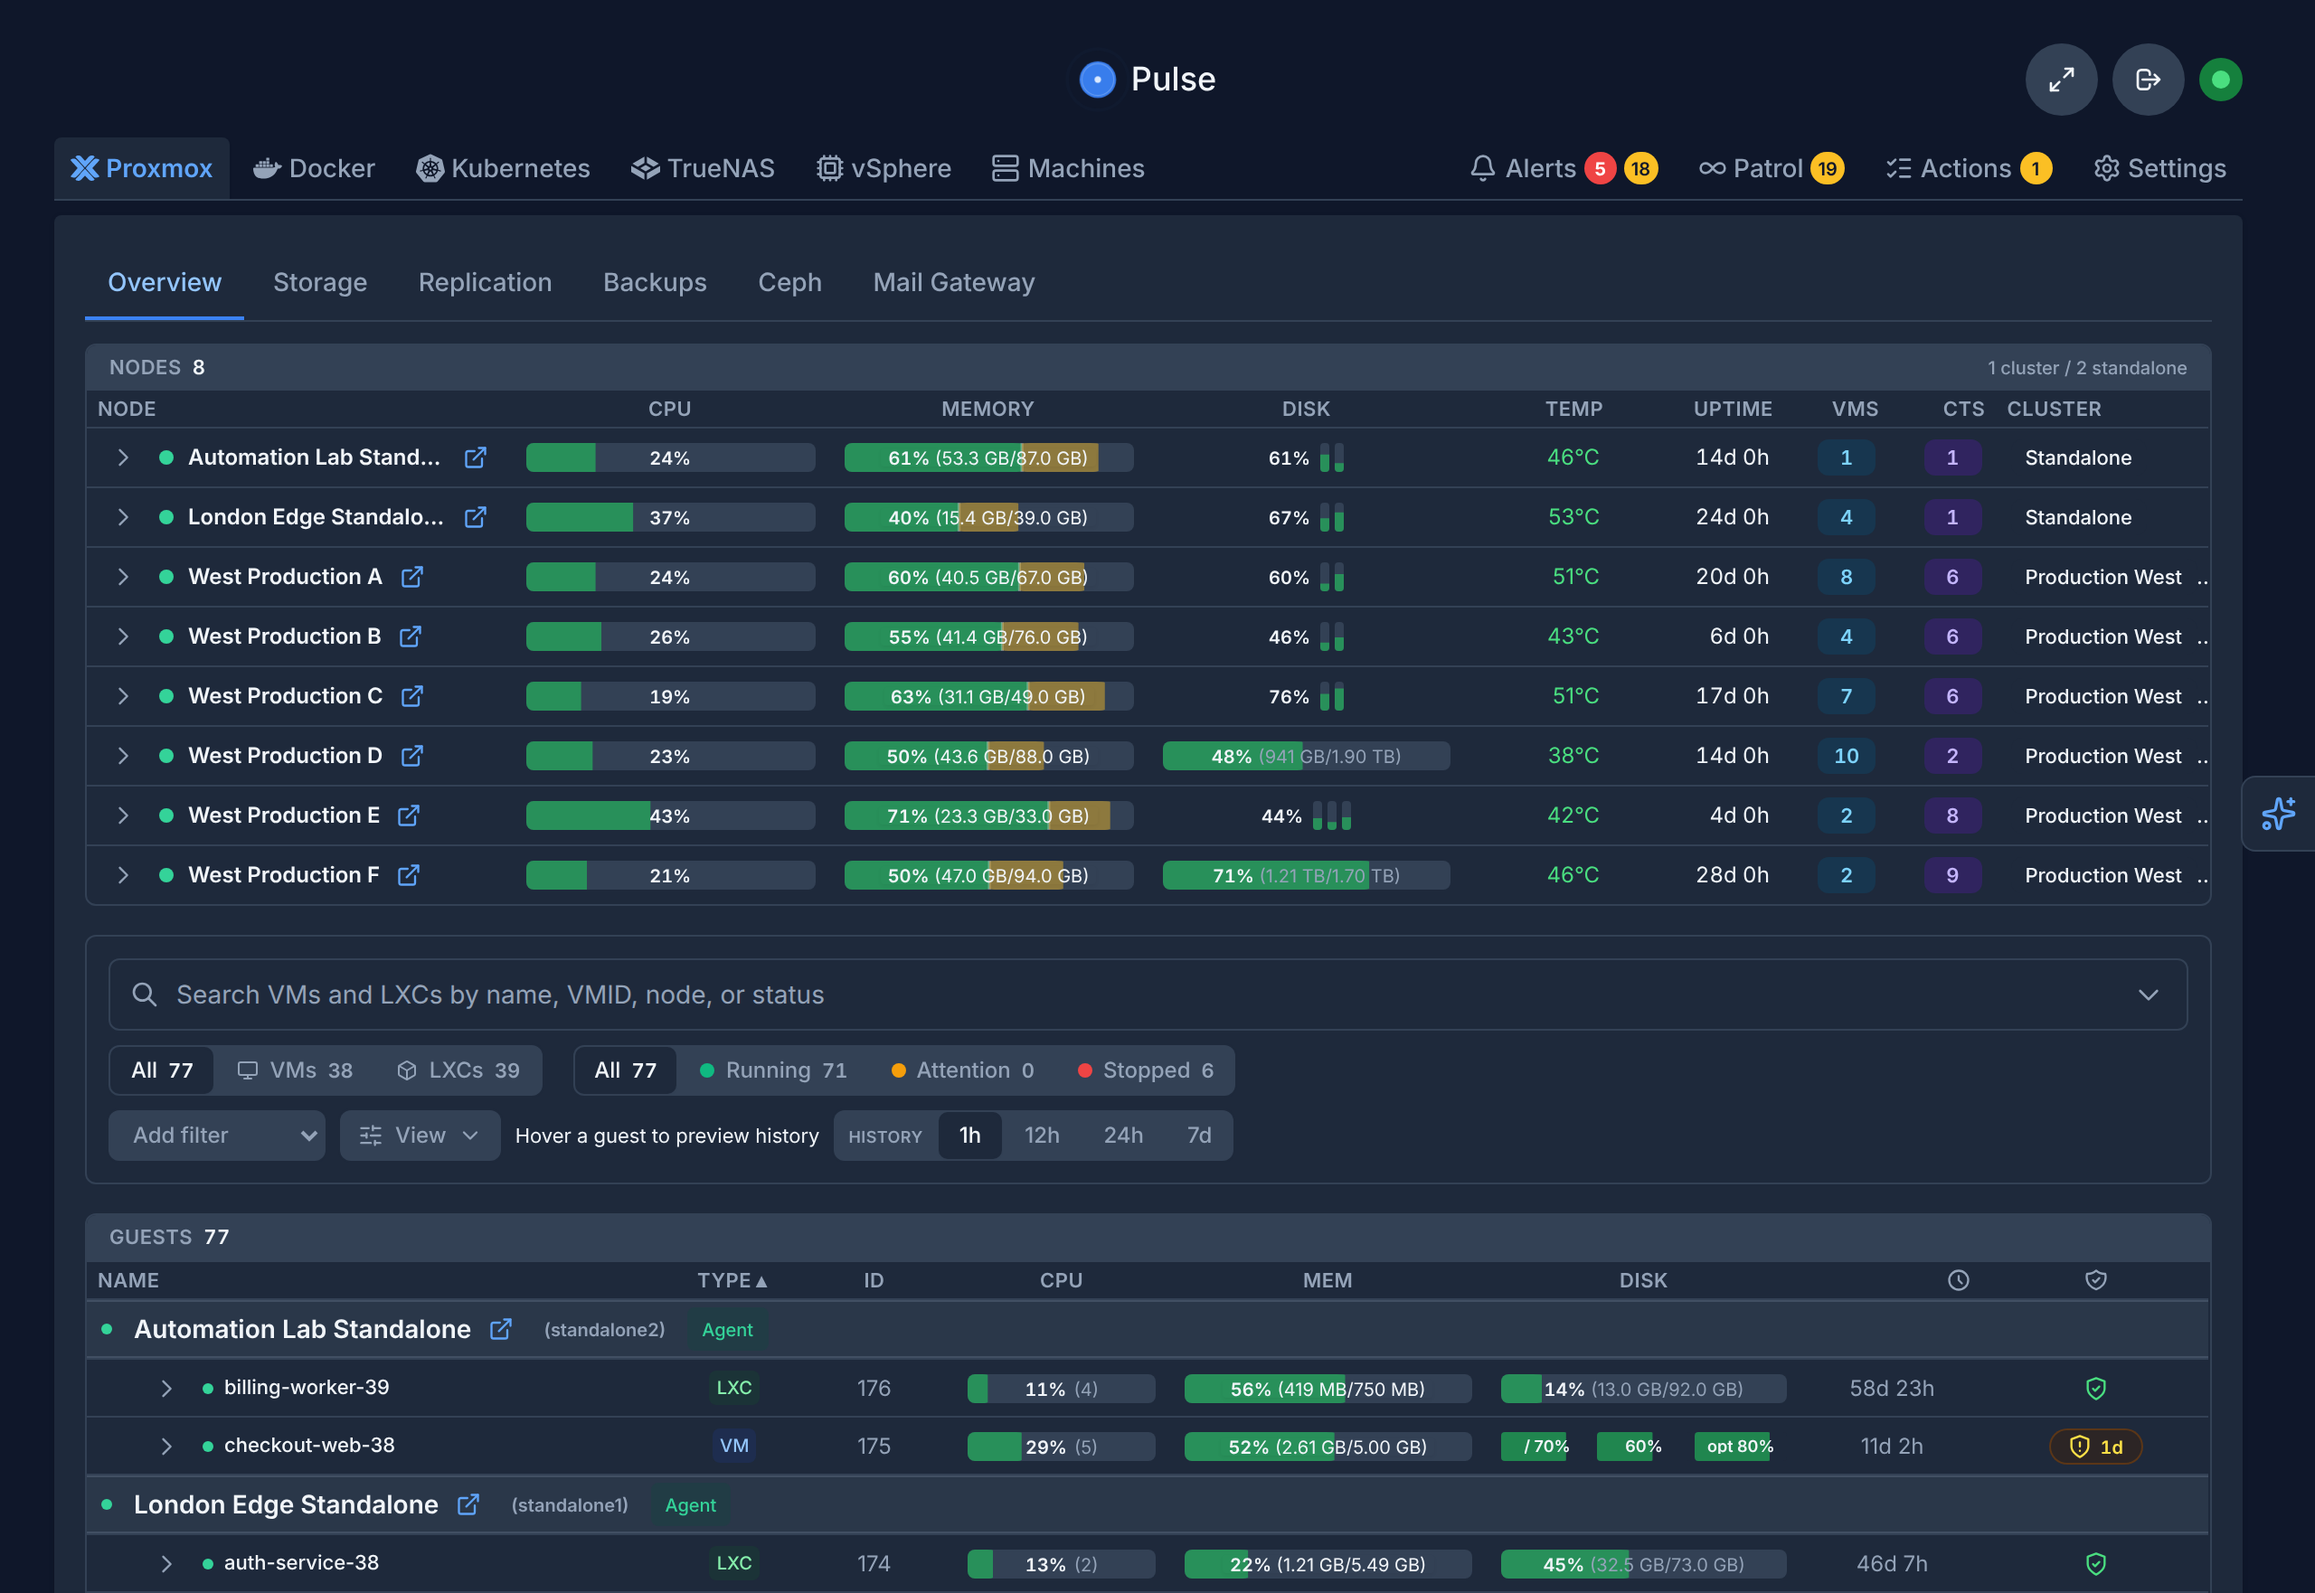
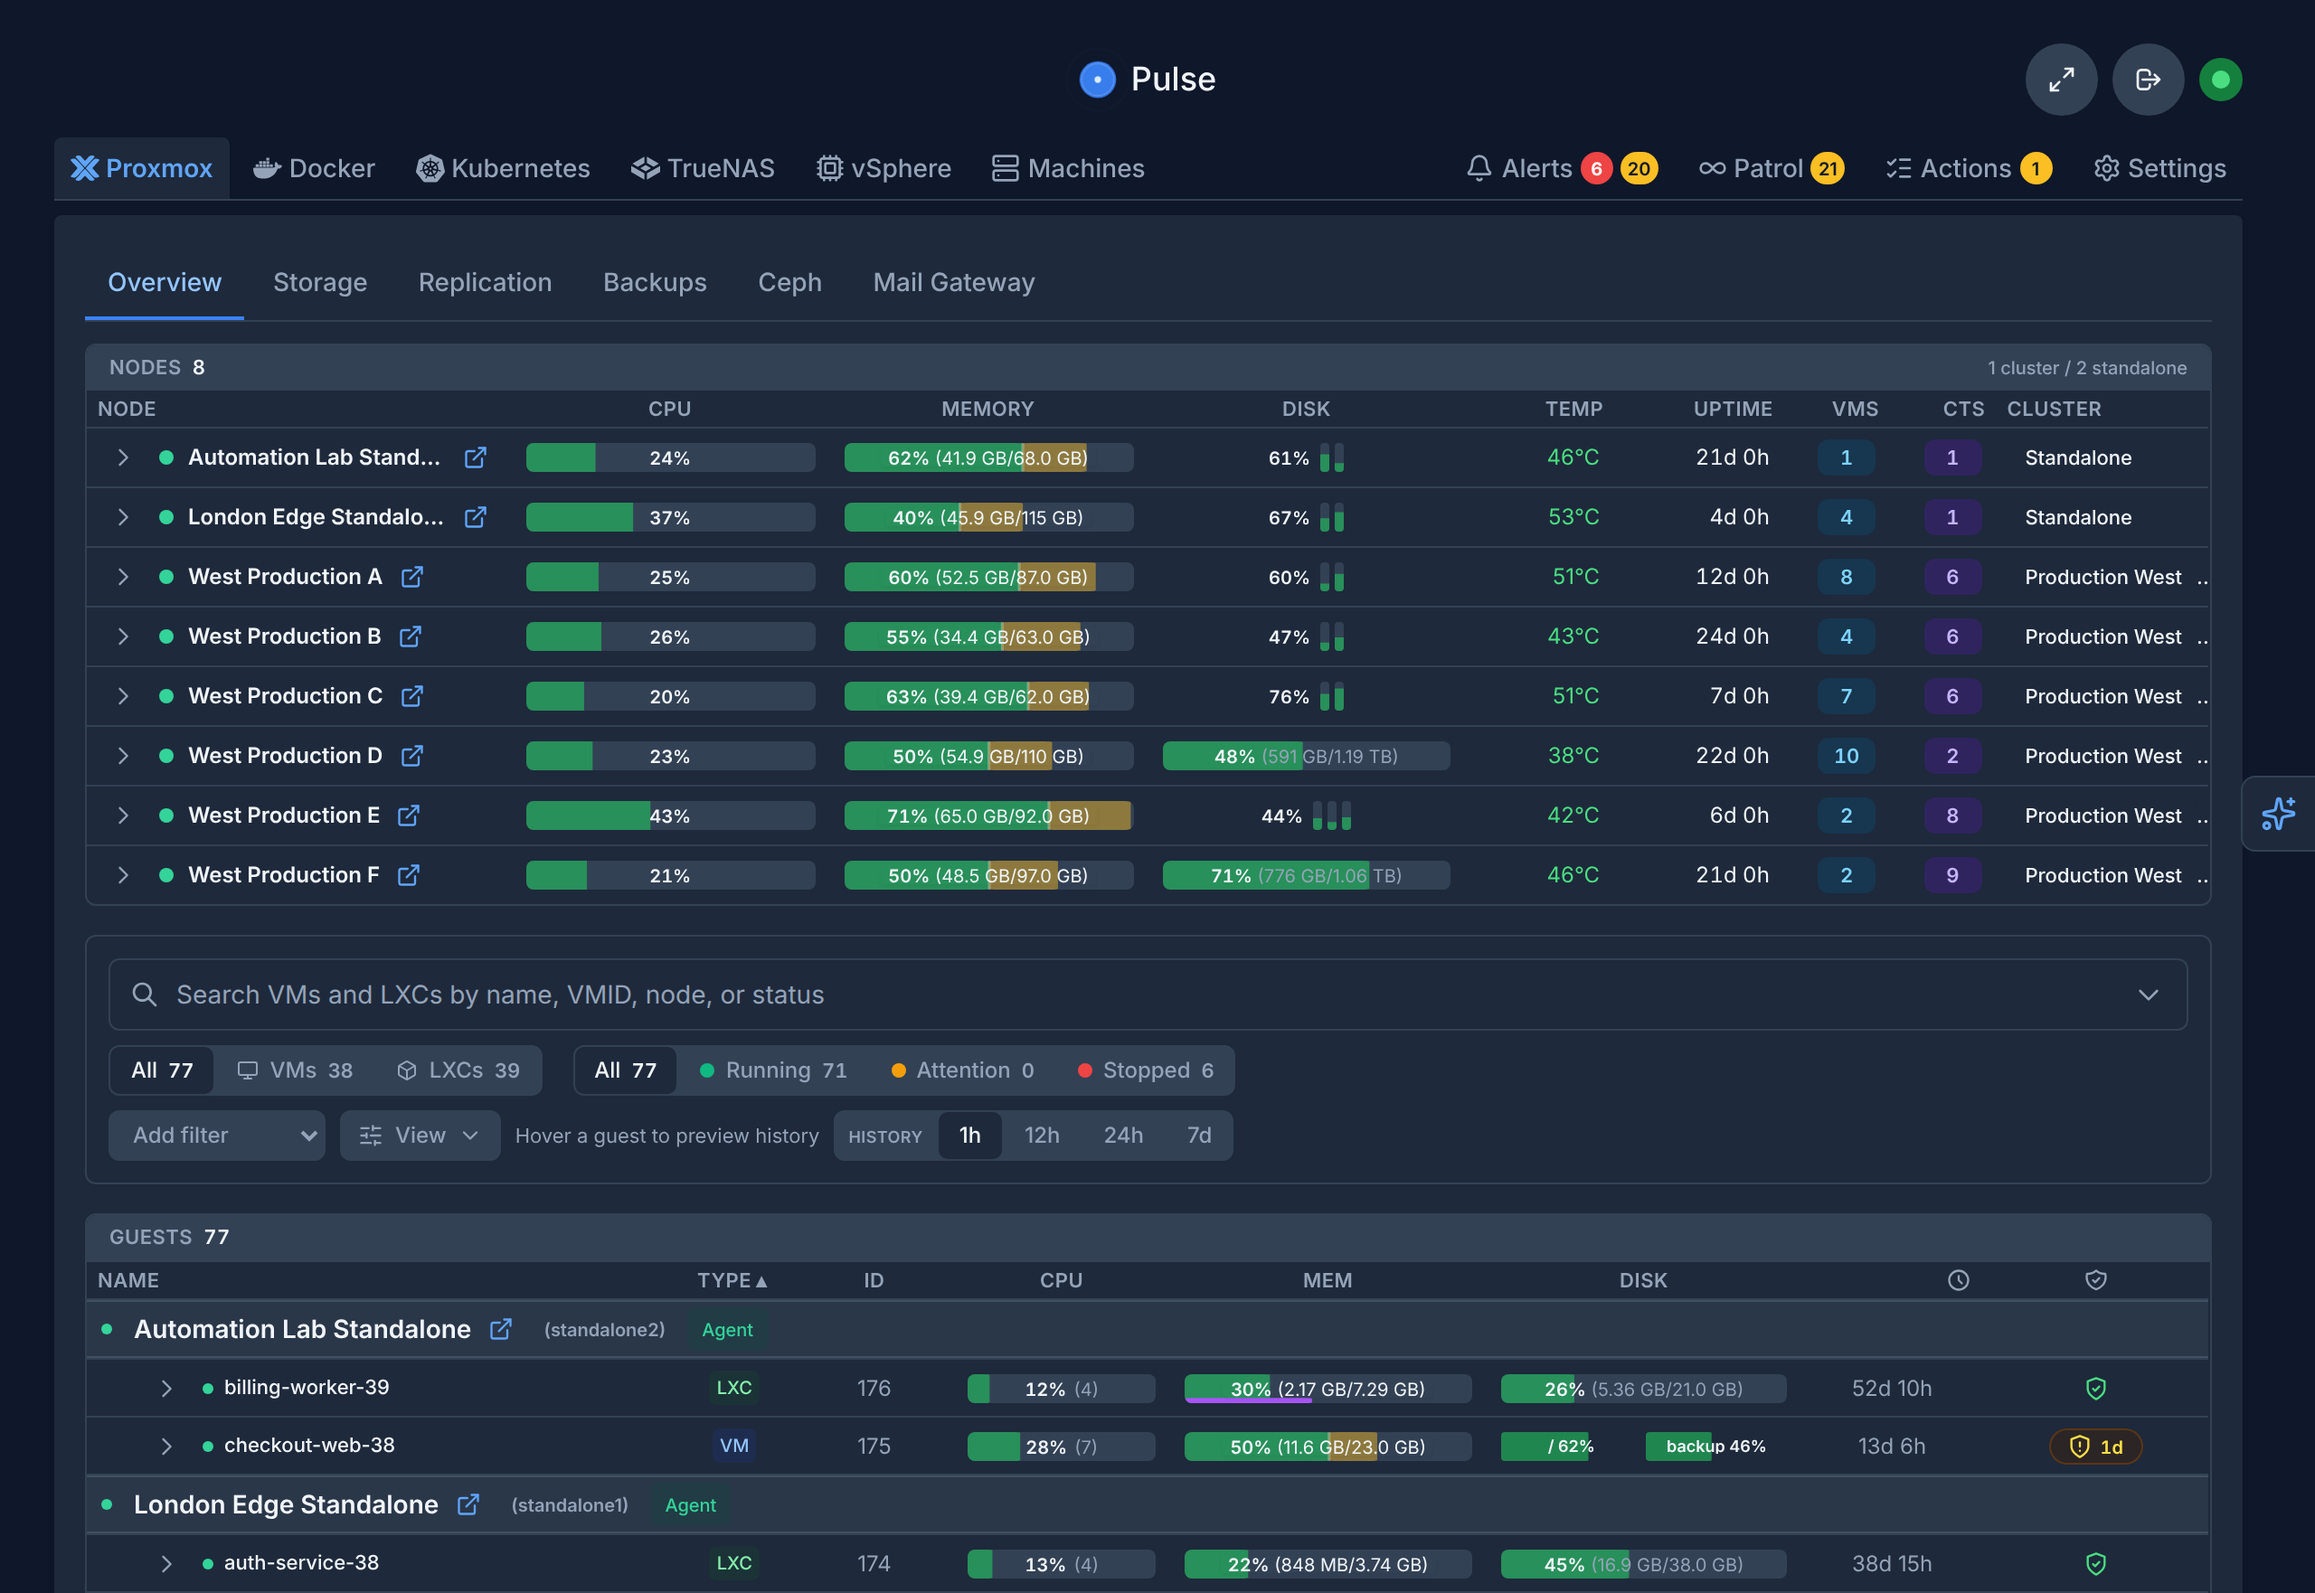
Mute the workload history hover hint
The one-time "Hover a guest to preview history" tip in the guest
toolbar had no colour class, so it rendered in body-text white while
every control around it (View, Add filter, the History label) is muted
slate. A passive tip outshone the controls and read as a stray label.
It now uses the muted token, so it reads as a caption for the History
range control it explains. Reveal, clear-on-hover and phone hiding are
unchanged.

The README workspace capture and social preview are refreshed from
the same build so they show the muted hint.

Contract-Neutral: Hint colour token only; no change to what the workloads toolbar shows or when

diff --git a/frontend-modern/src/components/Workloads/WorkloadsFilter.tsx b/frontend-modern/src/components/Workloads/WorkloadsFilter.tsx
@@ -455,7 +455,7 @@ export const WorkloadsFilter: Component<WorkloadsFilterProps> = (props) => {
           <div class="flex items-center gap-2">
             <Show when={historyHintSlotReserved()}>
               <span
-                class={`hidden whitespace-nowrap text-[11px] lg:inline ${
+                class={`hidden whitespace-nowrap text-[11px] text-muted lg:inline ${
                   props.metricHistoryHintVisible?.() ? '' : 'invisible'
                 }`.trim()}
                 data-testid="workload-history-hover-hint"

diff --git a/frontend-modern/src/components/Workloads/__tests__/WorkloadsFilter.test.tsx b/frontend-modern/src/components/Workloads/__tests__/WorkloadsFilter.test.tsx
@@ -313,9 +313,10 @@ describe('WorkloadsFilter', () => {
         />
       ));
 
-      expect(screen.getByTestId('workload-history-hover-hint')).toHaveTextContent(
-        'Hover a guest to preview history',
-      );
+      const hint = screen.getByTestId('workload-history-hover-hint');
+      expect(hint).toHaveTextContent('Hover a guest to preview history');
+      // A passive tip reads below the toolbar's controls, not brighter than them.
+      expect(hint).toHaveClass('text-muted');
       unmount();
 
       render(() => (
